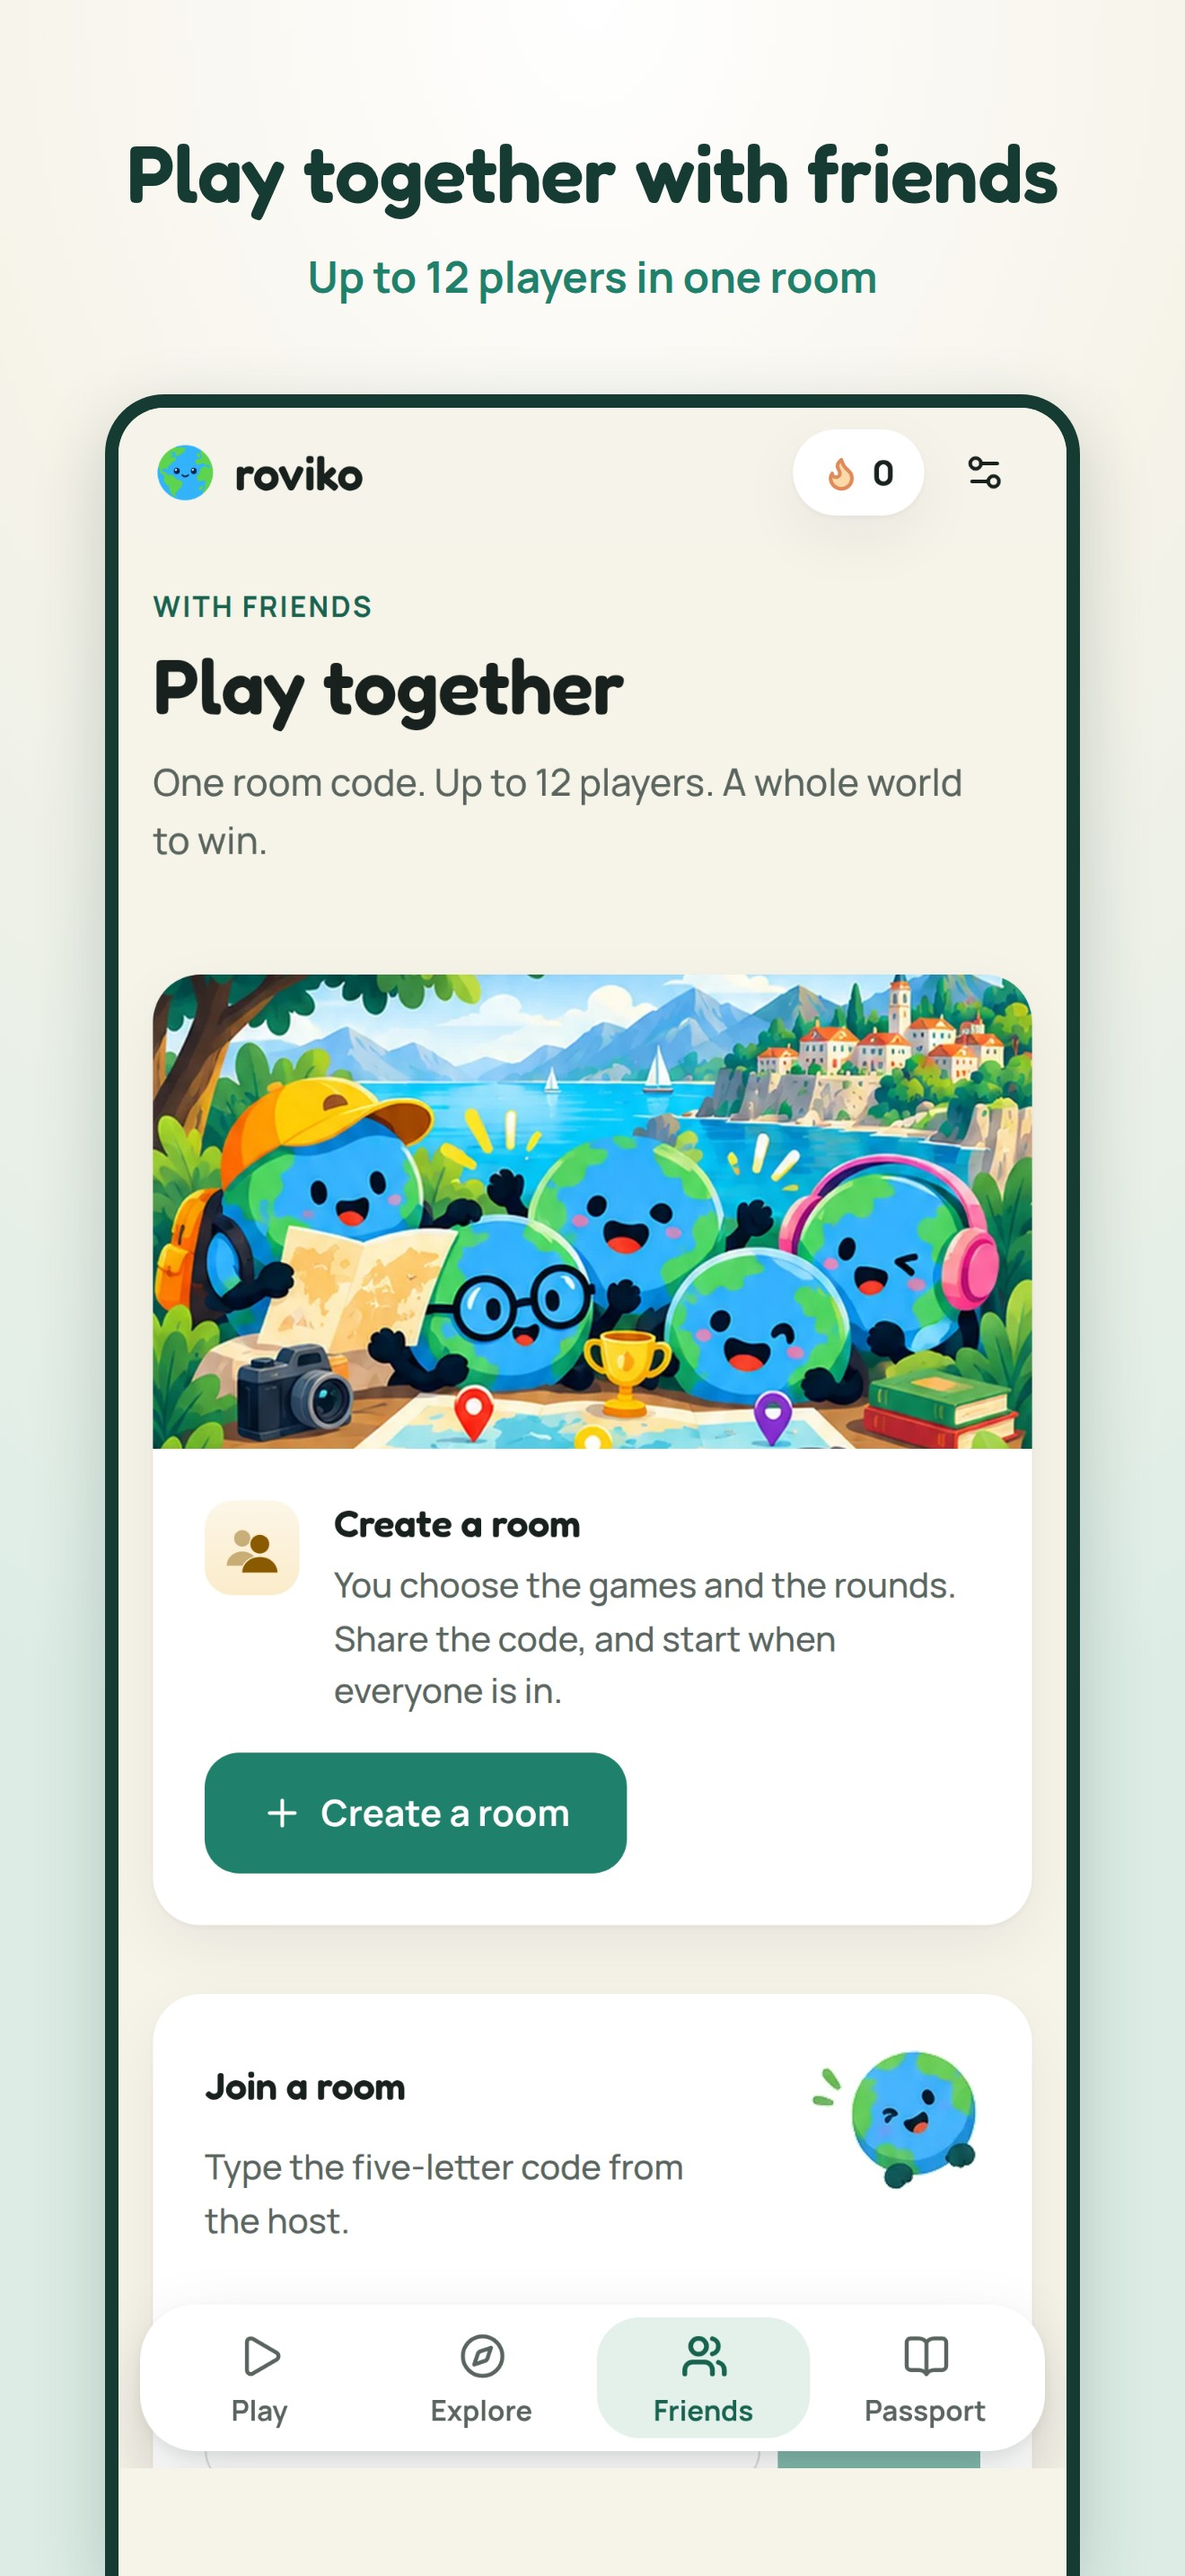
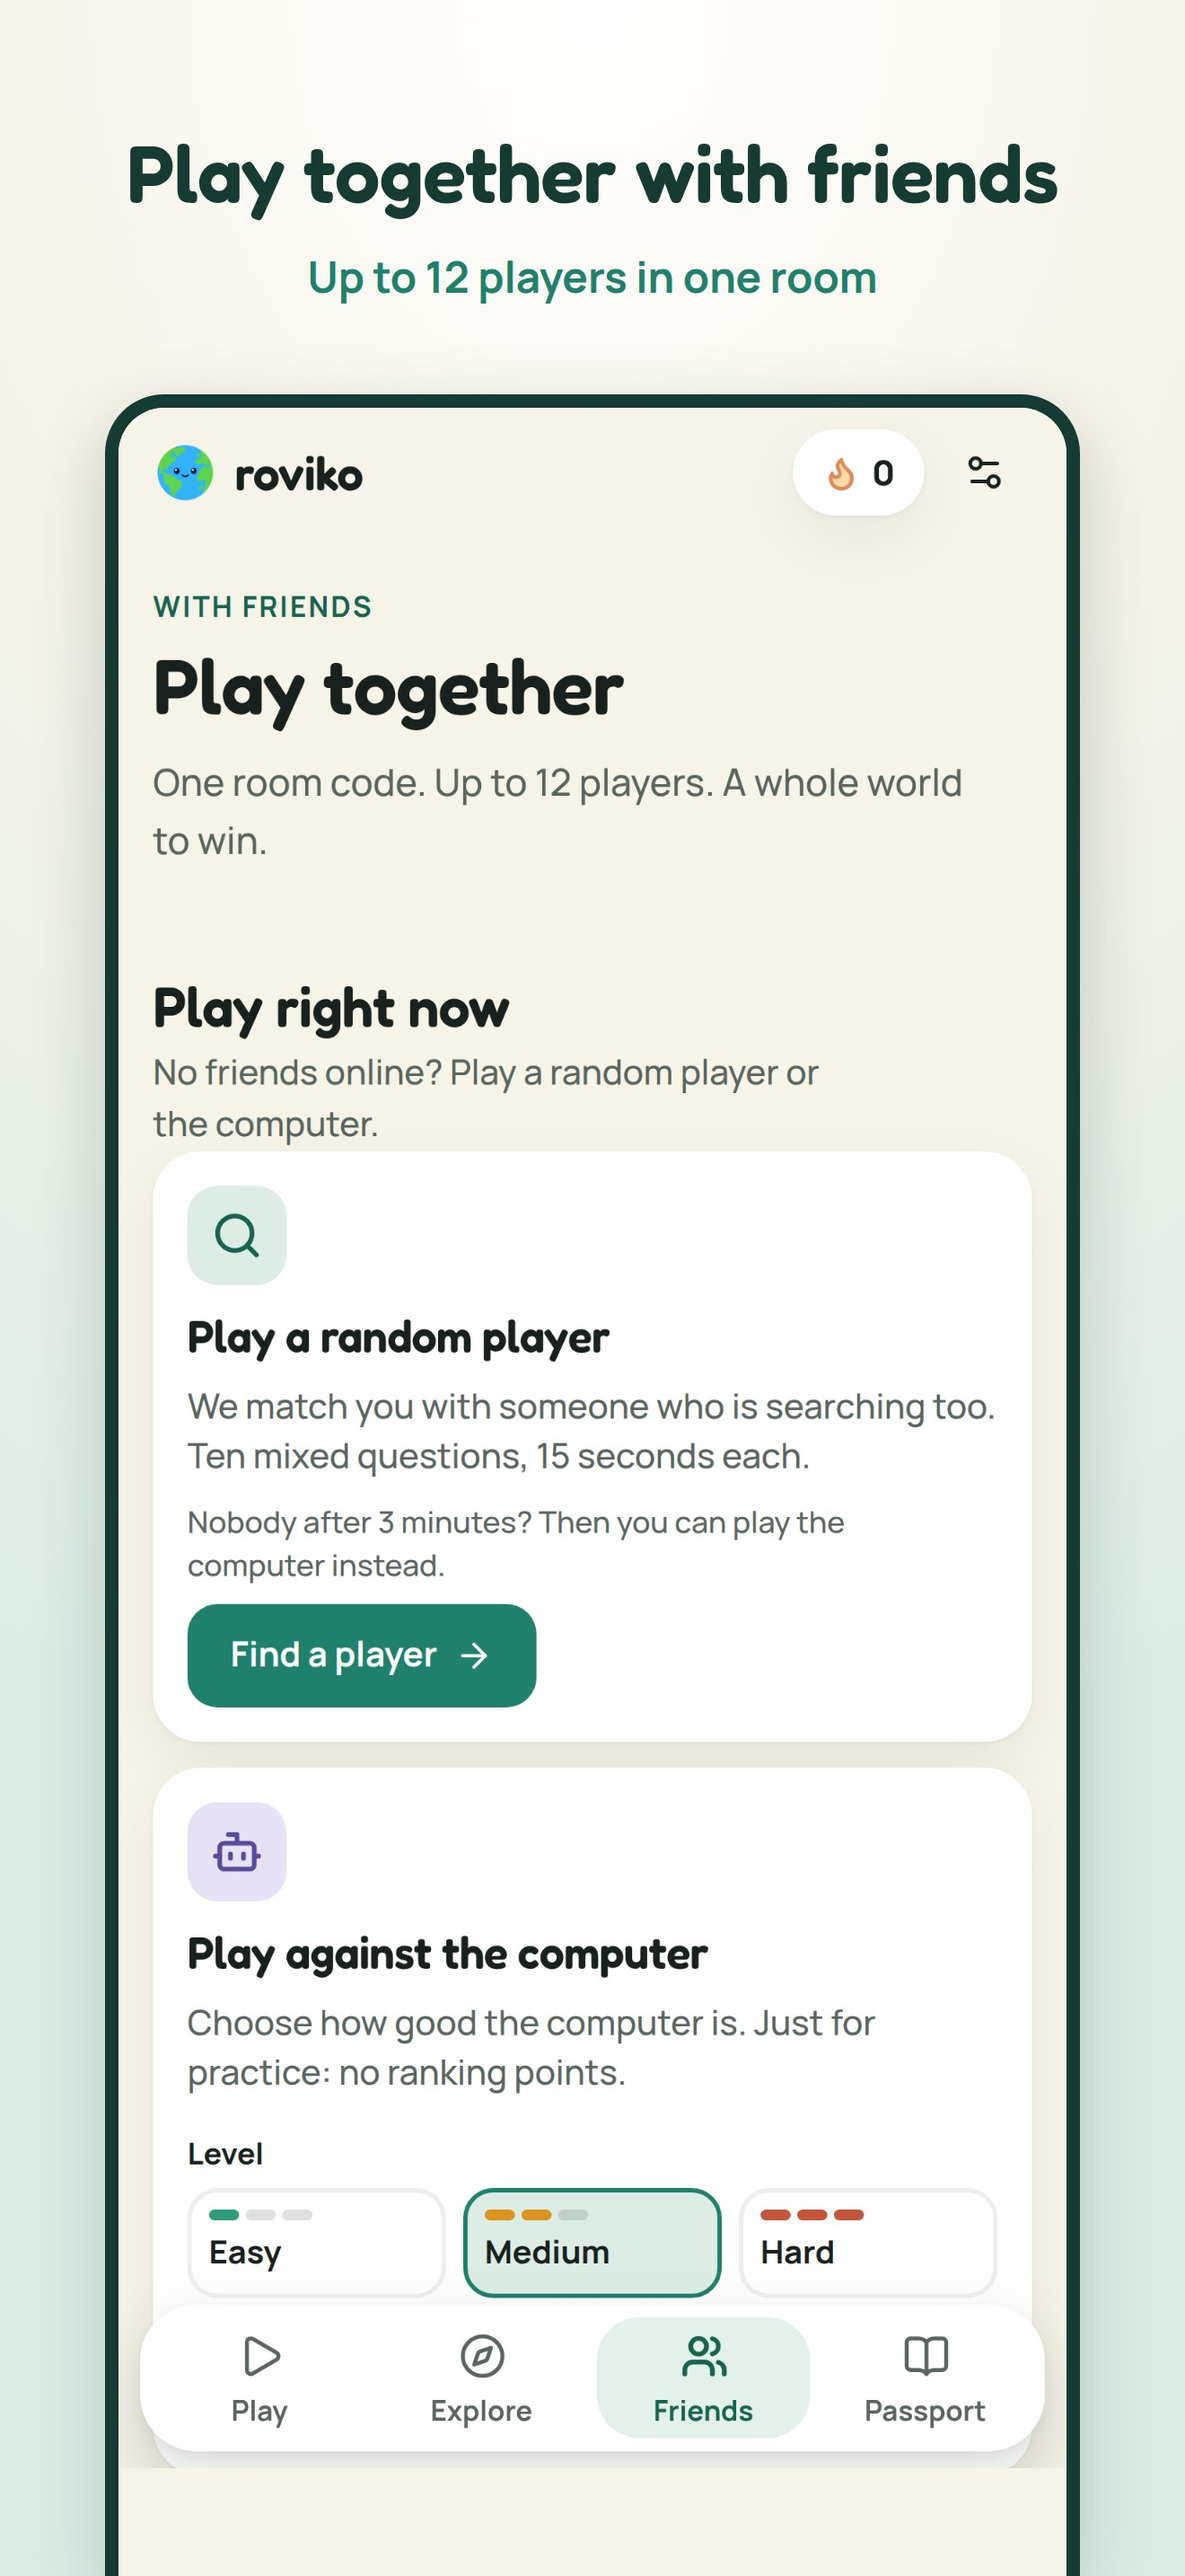
App Store: signed iOS build and upload from GitHub Actions, store texts and screenshots for 1.19
Claude-Session: https://claude.ai/code/session_015DtDVVv1ymwSxjLueET1Yu

Changed region(s): [[0.1242, 0.3724, 0.8697, 0.8999], [0.3727, 0.8379, 0.6212, 0.8999], [0.6523, 0.931, 0.8386, 0.962]]

diff --git a/roviko-app/store-listing.md b/roviko-app/store-listing.md
@@ -1,20 +1,21 @@
 # Winkelteksten Roviko
 
-Alles hieronder klopt met de website (versie 1.16). De tekenlimieten staan erbij. Plaatjes staan in `store/` (zie `LANCERING.md`).
+Alles hieronder klopt met de website (versie 1.19). De tekenlimieten staan erbij. Plaatjes staan in `store/` (zie `LANCERING.md`).
 
 ## Nederlands
 
 **Naam (max. 30):** Roviko – Aardrijkskunde quiz
-**Ondertitel iOS (max. 30):** Elke dag 5 wereldspellen
-**Promotietekst iOS (max. 170):** Een kleine dagelijkse wereldreis: vijf korte spellen over landen, vlaggen en kaarten. Speel alleen of nodig je vrienden direct uit.
-**Korte beschrijving Google (max. 80):** Elke dag vijf vrolijke aardrijkskundespellen. Gratis en zonder advertenties.
+**Ondertitel iOS (max. 30):** Elke dag 6 wereldspellen
+**Promotietekst iOS (max. 170):** Een kleine dagelijkse wereldreis: de Dagelijkse Omweg en vijf korte spellen over landen, vlaggen en kaarten. Speel alleen, met vrienden of tegen de computer.
+**Korte beschrijving Google (max. 80):** Elke dag zes vrolijke aardrijkskundespellen. Gratis en zonder advertenties.
 
 **Beschrijving:**
-Maak elke dag een kleine reis rond de wereld! Roviko is een vrolijk aardrijkskundespel met elke dag vijf korte spellen. Een paar nieuwsgierige minuten, een beetje meer wereld. Voor iedereen die nieuwsgierig is, van jong tot oud.
+Maak elke dag een kleine reis rond de wereld! Roviko is een vrolijk aardrijkskundespel met elke dag zes korte spellen. Een paar nieuwsgierige minuten, een beetje meer wereld. Voor iedereen die nieuwsgierig is, van jong tot oud.
 
-🌍 ELKE DAG VIJF NIEUWE SPELLEN
+🌍 ELKE DAG NIEUWE SPELLEN
+• Dagelijkse Omweg: 20 vragen uit alle spellen: vlaggen, hoofdsteden, de kaart, buren en grootte
 • Rank Radar: waar staat een land het hoogst?
-• Wereldreis: vlag, hoofdstad, kaart, buren en grootte in één reis
+• Wereldduel: vijf landkaarten tegen Roviko, kies per onderwerp de juiste
 • Side by Side: welk land heeft er meer van?
 • Country Mosaic: koppel naam, vlag, vorm en een verrassend feit
 • Daily Clue Trail: raad het land met zo min mogelijk hints
@@ -28,10 +29,10 @@ Bouw je reeks op en verdien reeksschilden die een gemiste dag opvangen. Haal dri
 Een stempel voor elk land dat je leert kennen (195 in totaal), kennis-zegels en 30 prestaties.
 
 👫 SAMEN SPELEN
-Zie welke vrienden online zijn en nodig ze met één tik uit in je kamer. Of deel een code: tot 12 spelers per kamer.
+Zie welke vrienden online zijn en nodig ze met één tik uit in je kamer, of deel een code: tot 12 spelers per kamer. Speel tegen een willekeurige speler, of tegen de computer op makkelijk, gemiddeld of moeilijk.
 
 🎮 NOG MEER SPELEN
-Wereldduel, het mysterieland van de dag en klassiekers als vlaggen, hoofdsteden, kaarten, buurlanden en landen op grootte, op je eigen tempo.
+Het mysterieland van de dag en klassiekers als vlaggen, hoofdsteden, kaarten, buurlanden en landen op grootte, op je eigen tempo.
 
 ✅ Gratis • Geen advertenties • Geen account nodig • Nederlands, Engels en Spaans • Licht en donker thema
 
@@ -40,16 +41,17 @@ Wereldduel, het mysterieland van de dag en klassiekers als vlaggen, hoofdsteden,
 ## English
 
 **Name (max. 30):** Roviko – Geography Quiz
-**Subtitle (max. 30):** 5 world games every day
-**Promotional text (max. 170):** A small daily trip around the world: five short games about countries, flags and maps. Play on your own or invite friends in one tap.
-**Short description (max. 80):** Five cheerful geography games every day. Free, with no ads.
+**Subtitle (max. 30):** 6 world games every day
+**Promotional text (max. 170):** A small daily trip around the world: the Daily Detour plus five short games about countries, flags and maps. Play solo, with friends or vs the computer.
+**Short description (max. 80):** Six cheerful geography games every day. Free, with no ads.
 
 **Description:**
-Take a small trip around the world every day! Roviko is a cheerful geography game with five short games daily. A few curious minutes, a little more of the world. For curious minds of every age.
+Take a small trip around the world every day! Roviko is a cheerful geography game with six short games daily. A few curious minutes, a little more of the world. For curious minds of every age.
 
-🌍 FIVE NEW GAMES EVERY DAY
+🌍 NEW GAMES EVERY DAY
+• Daily Detour: 20 questions from every game: flags, capitals, the map, neighbours and size
 • Rank Radar: where does a country rank highest?
-• World Trip: flag, capital, map, neighbours and size in one journey
+• World Duel: five country cards against Roviko, pick the right one for each subject
 • Side by Side: which country has more?
 • Country Mosaic: match name, flag, shape and a surprising fact
 • Daily Clue Trail: guess the country with as few clues as possible
@@ -63,10 +65,10 @@ Build your streak and earn streak shields that cover a missed day. Finish three 
 A stamp for every country you get to know (195 in all), knowledge seals and 30 achievements.
 
 👫 PLAY TOGETHER
-See which friends are online and invite them to your room in one tap. Or share a code: up to 12 players per room.
+See which friends are online and invite them to your room in one tap, or share a code: up to 12 players per room. Play a random player, or the computer on easy, medium or hard.
 
 🎮 EVEN MORE TO PLAY
-World Duel, the mystery country of the day and classics like flags, capitals, maps, neighbours and country sizes, at your own pace.
+The mystery country of the day and classics like flags, capitals, maps, neighbours and country sizes, at your own pace.
 
 ✅ Free • No ads • No account needed • English, Dutch and Spanish • Light and dark mode
 
@@ -75,16 +77,17 @@ World Duel, the mystery country of the day and classics like flags, capitals, ma
 ## Español
 
 **Nombre (máx. 30):** Roviko – Quiz de geografía
-**Subtítulo (máx. 30):** 5 juegos del mundo cada día
-**Texto promocional (máx. 170):** Un pequeño viaje diario por el mundo: cinco juegos cortos sobre países, banderas y mapas. Juega solo o invita a tus amigos con un toque.
-**Descripción corta (máx. 80):** Cinco alegres juegos de geografía cada día. Gratis y sin anuncios.
+**Subtítulo (máx. 30):** 6 juegos del mundo cada día
+**Texto promocional (máx. 170):** Un pequeño viaje diario por el mundo: el Desvío diario y cinco juegos cortos sobre países, banderas y mapas. Solo, con amigos o contra el ordenador.
+**Descripción corta (máx. 80):** Seis alegres juegos de geografía cada día. Gratis y sin anuncios.
 
 **Descripción:**
-¡Haz cada día un pequeño viaje por el mundo! Roviko es un alegre juego de geografía con cinco juegos cortos al día. Unos minutos de curiosidad, un poco más de mundo.
+¡Haz cada día un pequeño viaje por el mundo! Roviko es un alegre juego de geografía con seis juegos cortos al día. Unos minutos de curiosidad, un poco más de mundo.
 
-🌍 CINCO JUEGOS NUEVOS CADA DÍA
+🌍 JUEGOS NUEVOS CADA DÍA
+• Desvío diario: 20 preguntas de todos los juegos: banderas, capitales, el mapa, vecinos y tamaño
 • Rank Radar: ¿en qué destaca más un país?
-• Vuelta al mundo: bandera, capital, mapa, vecinos y tamaño en un solo viaje
+• Duelo mundial: cinco cartas de países contra Roviko, elige la adecuada para cada tema
 • Side by Side: ¿qué país tiene más?
 • Country Mosaic: une nombre, bandera, silueta y un dato sorprendente
 • Daily Clue Trail: adivina el país con las menos pistas posibles
@@ -98,7 +101,7 @@ Mantén tu racha y gana escudos que cubren un día perdido. Completa tres mision
 Un sello por cada país que conoces (195 en total), sellos de conocimiento y 30 logros.
 
 👫 JUEGA CON AMIGOS
-Mira qué amigos están en línea e invítalos a tu sala con un toque. O comparte un código: hasta 12 jugadores por sala.
+Mira qué amigos están en línea e invítalos a tu sala con un toque, o comparte un código: hasta 12 jugadores por sala. Juega contra alguien al azar o contra el ordenador en fácil, medio o difícil.
 
 ✅ Gratis • Sin anuncios • Sin cuenta • Español, inglés y neerlandés • Modo claro y oscuro
 

diff --git a/roviko-app/LANCERING.md b/roviko-app/LANCERING.md
@@ -39,17 +39,35 @@ Deze checklist hoort bij versie 1.19 van de website. Wat klaarstaat, staat boven
    - Privacybeleid-URL: `https://roviko.app/privacy`.
 5. **Upload** `app-release.aab` bij *Gesloten testen*, en na de testperiode bij *Productie*. Een beoordeling duurt meestal 1 tot 7 dagen.
 
-## App Store (iPhone en iPad)
+## App Store (iPhone en iPad), zonder eigen Mac
 
-1. **Apple Developer Program:** <https://developer.apple.com/programs/>, €99 per jaar. Voor een bedrijfsnaam heb je een D-U-N-S-nummer nodig.
-2. **Een Mac met Xcode,** of een cloud-Mac-dienst zoals Codemagic. In deze omgeving is geen Mac beschikbaar, dus de iOS-build en het ondertekenen kan ik niet voor je doen.
-3. **Op de Mac:** `cd roviko-app && npm ci && npx cap sync ios && npx cap open ios`. Kies je *Team* bij *Signing & Capabilities* en kies daarna *Product → Archive → Distribute App*.
-4. **In App Store Connect:**
-   - Naam, ondertitel, promotietekst, beschrijving en trefwoorden: `store-listing.md`.
-   - Screenshots: `store/ios-iphone-6.9/` en `store/ios-ipad-13/`.
-   - Privacylabels volgens de tabel in `store-listing.md`, leeftijd 4+ en categorie *Onderwijs*. Kies **niet** de categorie "Kinderen".
-   - Privacybeleid-URL `https://roviko.app/privacy`, plus je support-URL.
-5. **Test eerst via TestFlight** en dien de app daarna in. De beoordeling duurt meestal 1 tot 3 dagen.
+GitHub bouwt, ondertekent en uploadt de app voor je (workflow **Roviko app**, taak `ios-release`).
+
+1. **Apple Developer Program** (persoonlijk account, €99 per jaar).
+2. **App-ID registreren:** developer.apple.com → Certificates, Identifiers & Profiles → Identifiers → **+** → App IDs → App. Beschrijving `Roviko`, Bundle ID (explicit) `com.roviko.app`. Geen extra capabilities.
+3. **App aanmaken in App Store Connect:** Apps → **+** → Nieuwe app.
+   - Platform iOS, naam `Roviko – Aardrijkskunde quiz`, taal Nederlands.
+   - Bundle ID `com.roviko.app`, SKU `roviko`.
+4. **API-sleutel maken:** App Store Connect → Gebruikers en toegang → Integraties → App Store Connect API → Teamsleutels → **+**.
+   - Naam `GitHub`, rol **Admin** (nodig om automatisch certificaten te maken).
+   - Download het `.p8`-bestand; dat kan maar één keer.
+   - Noteer de **Key ID** en de **Issuer ID** (die staat boven de lijst).
+5. **Team ID opzoeken:** developer.apple.com → Account → Membership details (10 tekens).
+6. **Vier GitHub-secrets zetten:** repository → Settings → Secrets and variables → Actions → New repository secret.
+   - `APPSTORE_KEY_P8`: de volledige inhoud van het `.p8`-bestand (open het met Kladblok en kopieer alles, inclusief de BEGIN- en END-regels).
+   - `APPSTORE_KEY_ID`
+   - `APPSTORE_ISSUER_ID`
+   - `APPLE_TEAM_ID`
+7. **Bouwen:** GitHub → Actions → *Roviko app* → *Run workflow*. Na ongeveer 15 tot 30 minuten staat de build in App Store Connect onder **TestFlight**.
+8. **Testen via TestFlight** op je eigen iPhone (TestFlight-app, jezelf toevoegen als interne tester).
+9. **Winkelpagina invullen** in App Store Connect:
+   - teksten uit `store-listing.md` (versie 1.19);
+   - screenshots uit `store/ios-iphone-6.9/` en `store/ios-ipad-13/`;
+   - privacylabels volgens de tabel, leeftijd 4+, categorie Onderwijs;
+   - privacy-URL `https://roviko.app/privacy`, support-URL `https://roviko.app` (contact `support@roviko.app`);
+   - kies bij de build de TestFlight-build en dien de app in.
+
+Met een Mac kan het ook: `cd roviko-app && npm ci && npx cap sync ios && npx cap open ios`, daarna in Xcode *Product → Archive → Distribute App*.
 
 ### Aandachtspunten bij Apple
 
